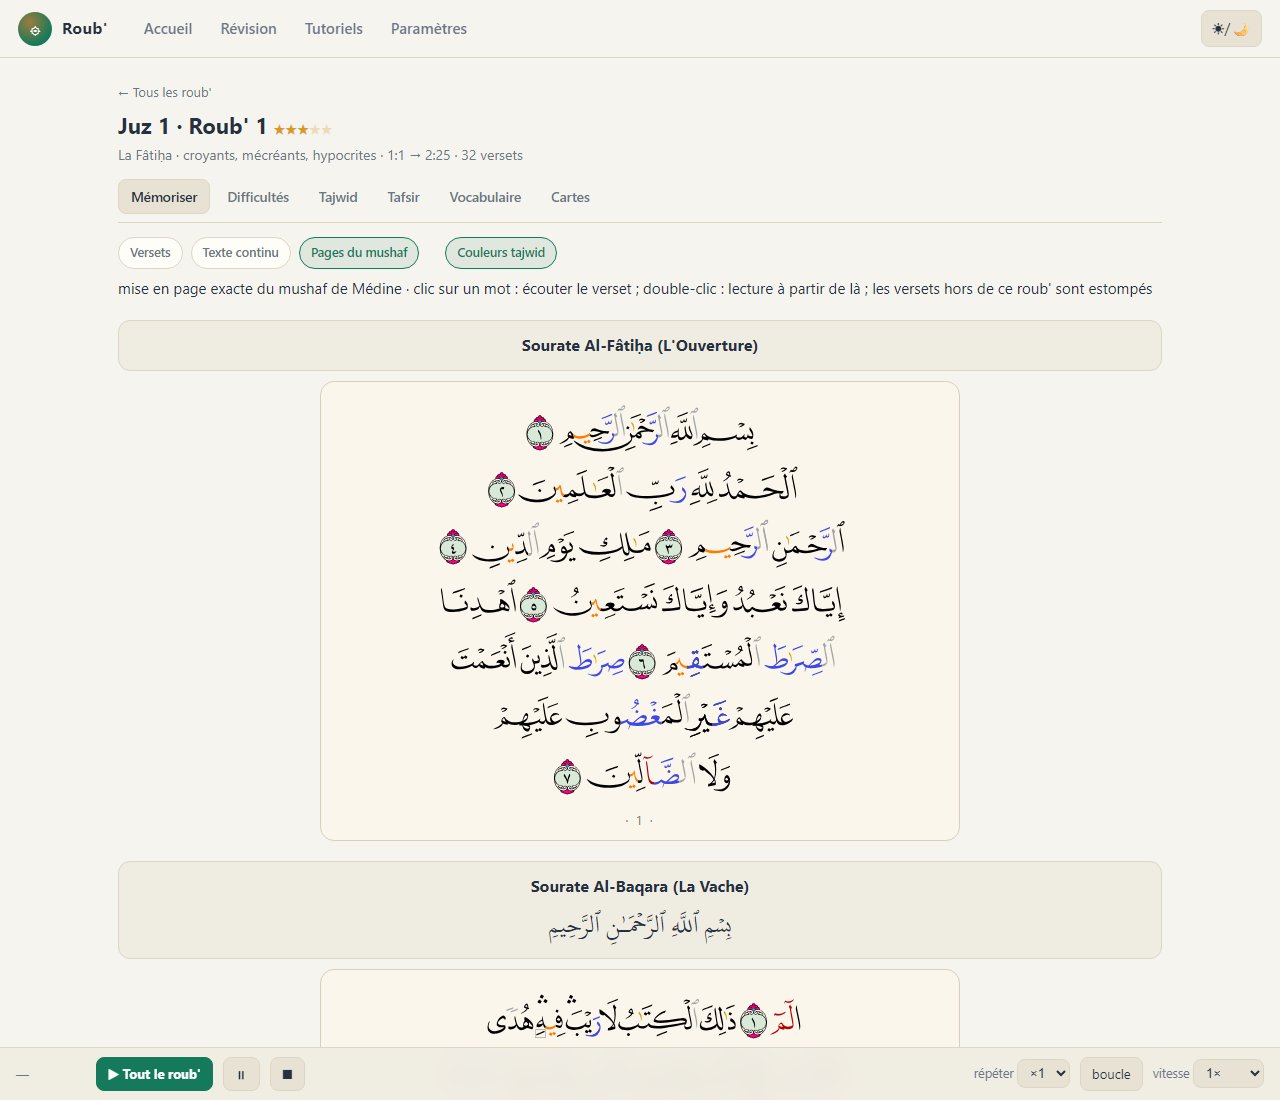
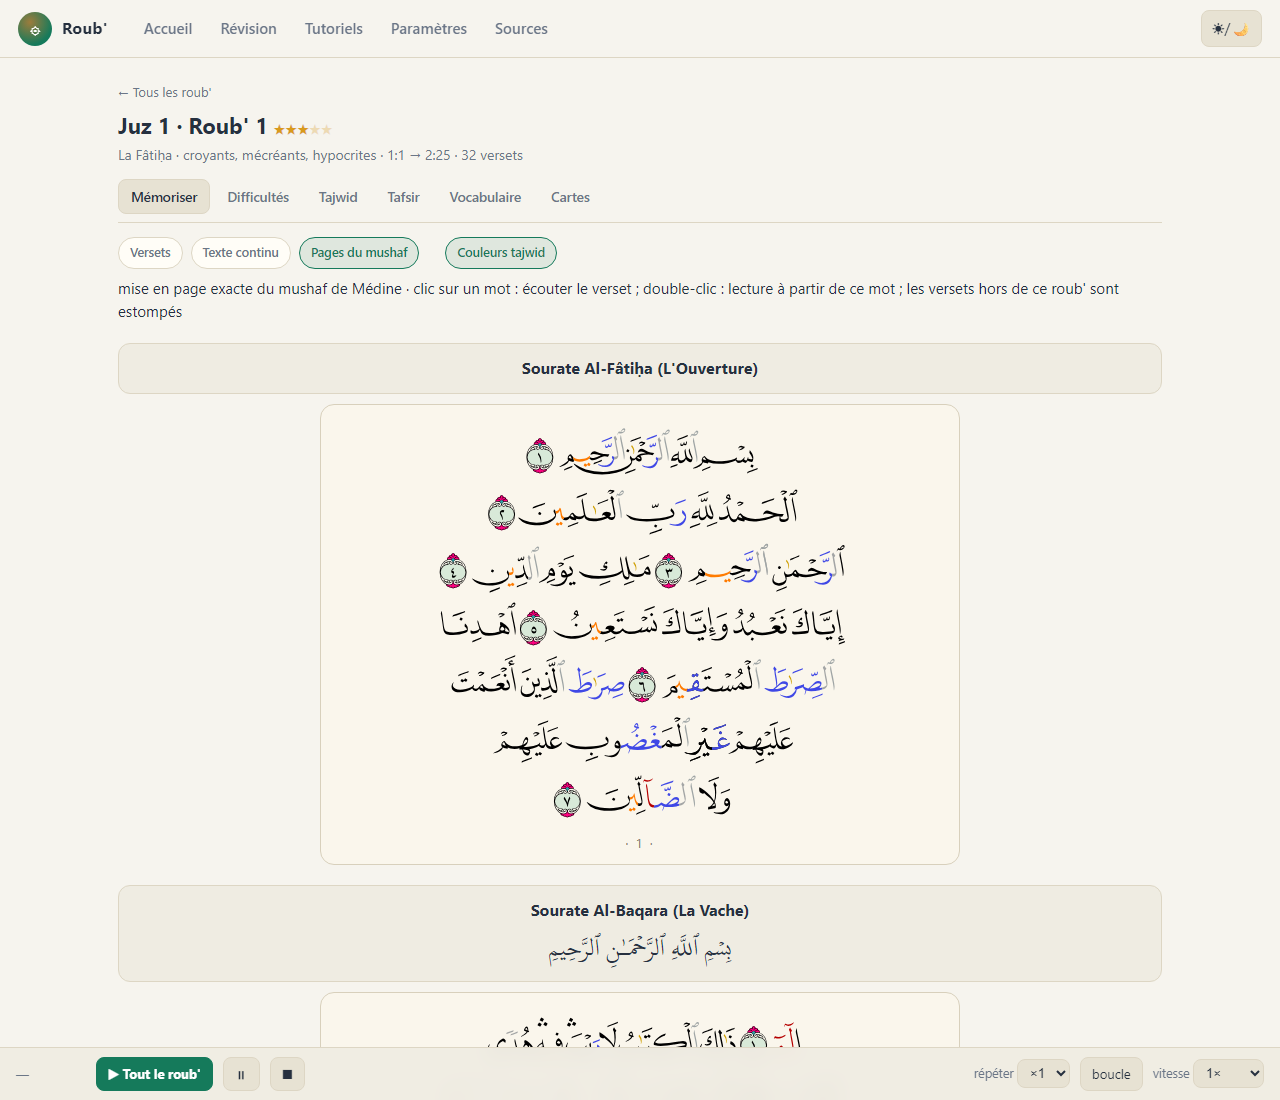
1.16.2 : audit de cohérence après la vague 1.13.4 → 1.16.1
- Le badge « notes à venir » réapparaît sur l'accueil : il testait un verrou
  d'accès levé en 1.13.0, donc il n'apparaissait plus nulle part ; il suit
  maintenant la présence de notes rédigées, ce qu'il a toujours signalé.
- Page Sources et SOURCES.md : les trois sources du tutoriel « Obligatoire ou
  perfectionnement ? » qui manquaient à la bibliographie (al-Marṣafî, Mullâ
  'Alî al-Qârî, Makkî Naṣr), le lien Shamela de Tuhfat al-Atfâl, et les trois
  cas où un lien ne passe pas par Shamela, désormais écrits.
- Les transformations d'affichage du texte sont énoncées toutes les deux,
  la graphie du soukoun et celle de l'iqlâb (page Sources, SOURCES.md,
  tools/README).
- README et LISEZMOI : Sources est un onglet et non un chemin dans Tutoriels,
  les tutoriels sont cinq, les 24 roub' sont tous accessibles.
- Captures du README refaites : elles dataient d'avant la 1.13.0.
- tools/README : fetch_segments.py --renormaliser, et la recette des captures.
- CHANGELOG : entrées 1.5.7/1.5.8 et 1.1.0/1.1.1 dédoublonnées d'après les diffs.
- pages.yml : actions montées aux majors en node24 (checkout v7, configure-pages
  v6, upload-pages-artifact v5, deploy-pages v5) ; le délai de 30 minutes et
  l'entrée timeout, inchangée en v5, sont conservés.

diff --git a/app/app.js b/app/app.js
@@ -615,11 +615,12 @@ function accueilHtml() {
       <p><b>Comment ça marche.</b> Choisis un roub' ci-dessous : l'onglet
       <b>Mémoriser</b> affiche le texte (versets, texte continu ou pages exactes
       du mushaf) avec l'audio et le soulignage mot à mot, et l'onglet
-      <b>Tafsir</b> le commentaire verset par verset. Les notes rédigées
-      (points durs, particularités tajwid, vocabulaire, cartes) existent pour le
-      roub' 1 ; ailleurs, ces onglets affichent « contenu à venir », et les
-      roub' marqués <i>notes à venir</i> sur l'accueil s'ouvriront à mesure
-      qu'ils seront rédigés. L'onglet <b>Révision</b> fait revenir les cartes à
+      <b>Tafsir</b> le commentaire verset par verset. Les 24 roub' sont tous
+      ouverts ; les notes rédigées (points durs, particularités tajwid,
+      vocabulaire, cartes) existent pour le roub' 1, et ailleurs ces onglets
+      affichent « contenu à venir » : c'est ce que signale le badge
+      <i>notes à venir</i> de l'accueil, qui disparaîtra roub' par roub' à
+      mesure de leur rédaction. L'onglet <b>Révision</b> fait revenir les cartes à
       intervalle croissant, et exporte tout pour Anki.</p>
       <p><b>Qui écrit.</b> <b>Anis</b> (co-fondateur, docteur en mathématiques) :
       à l'origine de la méthode. <b>Yusuf</b> (co-fondateur, interne en
@@ -654,7 +655,10 @@ function pageHome() {
     for (const r of rubs) {
       const cards = (DECKS[r.id] || []).map(c => c.id);
       const st = deckStats(cards);
-      const dispo = r.dispo !== false;
+      /* le badge signale l'absence de NOTES RÉDIGÉES, pas un roub' fermé :
+         les 24 sont ouverts depuis la 1.13.0 (`dispo` ne sert plus qu'à la
+         navigation), et se fier à lui rendait le badge invisible partout */
+      const notesRedigees = !!(NOTES[r.id] && NOTES[r.id].difficultes);
       const pg = progressOf(DECKS[r.id] || []);
       const pctSeen = pg.total ? Math.round(100 * pg.seen / pg.total) : 0;
       const pctMature = pg.total ? Math.round(100 * pg.mature / pg.total) : 0;
@@ -669,7 +673,7 @@ function pageHome() {
         <div class="foot">
           ${st.due ? `<span class="badge due">${st.due} carte${st.due > 1 ? "s" : ""} à revoir</span>`
                    : `<span class="badge">${cards.length} cartes</span>`}
-          ${dispo ? "" : `<span class="badge">notes à venir</span>`}
+          ${notesRedigees ? "" : `<span class="badge">notes à venir</span>`}
         </div></div>`;
     }
     h += `</div>`;
@@ -1217,11 +1221,11 @@ function glossBulle(cle) {
     <div class="src">${esc(g.src || "")} · cliquer le terme pour refermer</div></div>`;
 }
 
-/* bibliographie complète : c'est LA page de référence des sources ; les
-   mentions courtes ailleurs (accueil, à propos, README) y renvoient.
-   Doit rester synchronisée avec SOURCES.md à la racine du dépôt. */
 /* page Sources : onglet à part depuis la 1.15.0, elle n'est pas un tutoriel
-   mais la référence de tout ce que l'application reprend à d'autres */
+   mais LA référence de tout ce que l'application reprend à d'autres ; les
+   mentions courtes ailleurs (accueil, à propos, README) y renvoient.
+   Doit rester synchronisée avec SOURCES.md à la racine du dépôt : toute
+   source citée dans un tutoriel doit avoir sa notice ici. */
 function pageSources() {
   return `<div class="hero"><h1>Sources</h1></div><div class="prose">
 <p>Le détail de tout ce que l'application reprend à d'autres : édition,
@@ -1233,9 +1237,11 @@ présenté comme une position savante.</p>
 <h3>Texte coranique</h3>
 <p>Mushaf de Médine, riwâya Hafs 'an 'Âsim, texte de référence du <b>Complexe
 du Roi Fahd</b> (KFGQPC), obtenu par l'API quran.com v4. Le texte n'est jamais
-modifié : les seules transformations sont d'affichage (graphie du soukoun
-propre au mushaf de Médine) et sont réversibles. Un contrôle automatique
-compare, verset par verset, le texte publié à celui de la source.</p>
+modifié : les seules transformations sont d'affichage, et elles sont
+réversibles. Elles sont deux : la graphie du soukoun propre au mushaf de
+Médine, et celle de l'iqlâb, où le petit mîm remplace le second trait du
+tanwin comme sur la page imprimée. Un contrôle automatique compare, verset par
+verset, le texte publié à celui de la source.</p>
 
 <h3>Calligraphie et pages du mushaf</h3>
 <p>Polices <b>QCF</b> du KFGQPC, un glyphe par mot (version 1 en noir et blanc,
@@ -1278,6 +1284,15 @@ tome I, chapitre « Comment lit-on le Qur'an ? » : définitions du taḥqîq, d
 ḥadr, du tadwîr et du tartîl, et entrées du glossaire. Qur'an 73:4 pour le
 tartîl, avec les gloses d'<b>Ibn 'Abbâs</b> et de <b>Mujâhid</b> rapportées par
 Ibn al-Jazarî au même endroit.</p>
+<p>Le tutoriel « Obligatoire ou perfectionnement ? » repose sur le vers
+d'ouverture de la <i>Jazariyya</i> et sur ses commentateurs : <b>Mullâ ʿAlî
+al-Qârî</b> et <b>al-Marṣafî</b>, qui s'opposent sur le statut du <i>laḥn
+khafî</i>, <b>Makkî Naṣr</b> pour la distinction entre obligation religieuse et
+obligation de métier (il rapporte aussi <b>al-Barkawî</b>), <b>Ibn al-Jazarî</b>
+dans <i>an-Nashr</i> et <b>al-Ghazâlî</b> pour l'excuse de celui qui atteint le
+bout de sa capacité. Les traductions françaises de ces passages sont les
+nôtres, signalées comme telles, l'arabe donné en regard : aucune traduction
+française libre de droit de ces ouvrages n'existe.</p>
 
 <h3>Notes et cartes des roub'</h3>
 <p><b>Ibn Kathîr</b>, <i>Tafsîr al-Qur'ân al-'aẓîm</i>, consulté dans son texte
@@ -1299,7 +1314,12 @@ choix pédagogiques, pas des positions savantes.</p>
 <p>Les mêmes sources, en notices normalisées (ISO 690), classées par auteur.
 L'article arabe (<i>al-</i>, <i>as-</i>, <i>at-</i>) n'entre pas dans le
 classement, selon l'usage des bibliographies d'études arabes. Les dates de
-consultation sont celles des relevés qui ont servi à l'application.</p>
+consultation sont celles des relevés qui ont servi à l'application. Les liens
+mènent en priorité à la Bibliothèque numérique Shamela, la plus consultée pour
+les textes classiques ; une autre adresse ne subsiste que là où Shamela n'a pas
+l'ouvrage (<i>Nihâyat al-qawl al-mufîd</i>, <i>al-Minaḥ al-fikriyya</i>) ou
+n'en sert pas le texte (<i>Hidâyat al-qârî</i>, dont les pages du chapitre 7
+reviennent vides).</p>
 
 <p class="biblio">COMPLEXE DU ROI FAHD POUR L'IMPRESSION DU NOBLE CORAN
 (KFGQPC). <i>Al-Muṣḥaf al-sharīf</i>, riwāyat Ḥafṣ ʿan ʿĀṣim [en ligne]. Médine.
@@ -1344,11 +1364,26 @@ tafsir n° 14. [Consulté le 24 juillet 2026]. Disponible à l'adresse :
 https://api.quran.com/api/v4/</p>
 
 <p class="biblio">AL-JAMZŪRĪ, Sulaymān. <i>Tuḥfat al-aṭfāl wa-l-ghilmān fī
-tajwīd al-Qurʾān</i> [matn].</p>
+tajwīd al-Qurʾān</i> [matn en ligne]. [Consulté le 25 juillet 2026]. Disponible
+à l'adresse : https://shamela.ws/book/9632</p>
+
+<p class="biblio">AL-MARṢAFĪ, ʿAbd al-Fattāḥ. <i>Hidāyat al-qārī ilā tajwīd
+kalām al-Bārī</i>, chapitre 7 [en ligne]. [Consulté le 25 juillet 2026].
+Disponible à l'adresse : https://www.islamweb.net/ar/library/content/231/9/</p>
 
 <p class="biblio">MUSLIM IBN AL-ḤAJJĀJ. <i>Ṣaḥīḥ Muslim</i>, hadith 395
 [en ligne]. [Consulté le 23 juillet 2026]. Disponible à l'adresse :
 https://sunnah.com/</p>
+
+<p class="biblio">NAṢR AL-JURAYSĪ, Muḥammad Makkī. <i>Nihāyat al-qawl al-mufīd
+fī ʿilm at-tajwīd</i>, p. 26 [en ligne]. Rapporte également al-Barkawī,
+<i>Sharḥ ad-Durr al-yatīm</i>. [Consulté le 25 juillet 2026]. Disponible à
+l'adresse : https://ketabonline.com/ar/books/55066/</p>
+
+<p class="biblio">AL-QĀRĪ, Mullā ʿAlī (m. 1014 H). <i>Al-Minaḥ al-fikriyya fī
+sharḥ al-Muqaddima al-Jazariyya</i>, p. 29-30. Exemplaire numérisé [en ligne].
+[Consulté le 25 juillet 2026]. Disponible à l'adresse :
+https://archive.org/details/0743Pdf_201804</p>
 
 <p class="biblio">AS-SAʿDĪ, ʿAbd ar-Raḥmān ibn Nāṣir. <i>Taysīr al-Karīm
 ar-Raḥmān fī tafsīr kalām al-Mannān</i> [en ligne]. API quran.com, tafsir n° 91.
@@ -2336,7 +2371,7 @@ async function syncJoin(raw) {
 }
 
 /* ---------------- PWA : service worker + mises à jour ---------------- */
-const BUILD_VERSION = "1.16.1";   // réécrit par tools/release.py
+const BUILD_VERSION = "1.16.2";   // réécrit par tools/release.py
 const SITE_URL = "https://yusuf-oph.github.io/roub/";
 let APPVER = "";
 async function fetchVersion() {

diff --git a/app/sw.js b/app/sw.js
@@ -3,7 +3,7 @@
    - coquille (html/css/js/données/police de texte) : precache versionné ;
    - audio Husary + polices de pages QCF : cache à la demande, immuable ;
    - version.json : réseau d'abord (détection de mise à jour). */
-const VERSION = "1.16.1+2026-07-25";
+const VERSION = "1.16.2+2026-07-25";
 const SHELL_CACHE = "roub-shell-" + VERSION;
 const MEDIA_CACHE = "roub-media-v1";
 

diff --git a/SOURCES.md b/SOURCES.md
@@ -20,8 +20,9 @@ propre et n'est pas présenté comme une position savante.
   `text_uthmani` (texte affiché), `text_uthmani_tajweed` (annotations de
   règles), `text_imlaei` (base de la translittération).
 - Le texte n'est **jamais modifié** : les seules transformations sont
-  d'affichage (graphie du soukoun propre au mushaf de Médine) et sont
-  réversibles.
+  d'affichage, et elles sont réversibles. Elles sont deux : la **graphie du
+  soukoun** propre au mushaf de Médine, et la **graphie de l'iqlâb**, où le
+  petit mîm remplace le second trait du tanwin, comme sur la page imprimée.
 - Contrôle : `tools/verifie.py` compare, verset par verset, le texte publié au
   texte de l'API.
 
@@ -96,6 +97,19 @@ mu'allim* enregistré au monde (1969).
   la riwâya). Texte arabe consulté et archivé le 24/07/2026.
 - Qur'an 73:4 pour le tartîl, avec les gloses d'**Ibn 'Abbâs** et de
   **Mujâhid** rapportées par Ibn al-Jazarî au même endroit.
+- Tutoriel « Obligatoire ou perfectionnement ? » : le vers d'ouverture du
+  chapitre de tajwid de la *Jazariyya* et ses commentateurs. **Mullâ 'Alî
+  al-Qârî** (*al-Minaḥ al-fikriyya*) et **al-Marṣafî** (*Hidâyat al-qârî*)
+  soutiennent deux positions opposées sur le statut du *laḥn khafî*, et le
+  second nomme le premier pour le contredire ; **Makkî Naṣr** (*Nihâyat
+  al-qawl al-mufîd*) donne la distinction entre obligation religieuse et
+  obligation de métier, et rapporte **al-Barkawî** ; **Ibn al-Jazarî**
+  (*an-Nashr*) et **al-Ghazâlî** (*Iḥyâ'*) pour l'excuse de celui qui atteint
+  le bout de sa capacité. Les deux positions sont exposées avec leurs auteurs
+  et leurs textes, l'application n'arbitre pas entre elles.
+- Les traductions françaises de ces passages sont les **nôtres**, signalées
+  comme telles dans le tutoriel, avec l'arabe en regard : aucune traduction
+  française libre de droit de ces ouvrages n'existe.
 - Éléments biographiques sur al-Husary (premières mondiales d'enregistrement) :
   notice biographique du cheikh ; à consolider par une source institutionnelle.
 
@@ -134,7 +148,14 @@ l'application.
 Choix de la source en ligne : **priorité à la Bibliothèque numérique Shamela**
 (`shamela.ws`), la plus connue et la plus consultée pour les textes classiques
 (suggestion d'Anis, 25/07). Les autres adresses ne subsistent que là où Shamela
-n'a pas l'ouvrage ou n'en sert pas le texte, et c'est alors signalé.
+n'a pas l'ouvrage ou n'en sert pas le texte. Les trois cas, vérifiés le 25/07 :
+
+- *Hidâyat al-qârî* d'al-Marṣafî **est** sur Shamela (livre 22869), mais les
+  pages du chapitre 7 y reviennent vides : le lien reste sur islamweb, qui sert
+  le texte vocalisé.
+- *Nihâyat al-qawl al-mufîd* de Makkî Naṣr n'y est pas : ketabonline.
+- *Al-Minaḥ al-fikriyya* de Mullâ 'Alî al-Qârî n'y est pas : exemplaire
+  numérisé sur archive.org.
 
 Conventions retenues pour ce qui échappe à la norme : classement par auteur,
 **l'article arabe (*al-*, *as-*, *at-*) n'entrant pas dans l'ordre alphabétique**
@@ -182,10 +203,26 @@ IBN KATHĪR, Ismāʿīl ibn ʿUmar. *Tafsīr al-Qurʾān al-ʿaẓīm* [en ligne
 arabe intégral servi par l'API quran.com, tafsir n° 14. [Consulté le 24 juillet
 2026]. Disponible à l'adresse : https://api.quran.com/api/v4/
 
-AL-JAMZŪRĪ, Sulaymān. *Tuḥfat al-aṭfāl wa-l-ghilmān fī tajwīd al-Qurʾān* [matn].
+AL-JAMZŪRĪ, Sulaymān. *Tuḥfat al-aṭfāl wa-l-ghilmān fī tajwīd al-Qurʾān*
+[matn en ligne]. [Consulté le 25 juillet 2026]. Disponible à l'adresse :
+https://shamela.ws/book/9632
+
+AL-MARṢAFĪ, ʿAbd al-Fattāḥ. *Hidāyat al-qārī ilā tajwīd kalām al-Bārī*,
+chapitre 7 [en ligne]. [Consulté le 25 juillet 2026]. Disponible à l'adresse :
+https://www.islamweb.net/ar/library/content/231/9/
 
 MUSLIM IBN AL-ḤAJJĀJ. *Ṣaḥīḥ Muslim*, hadith 395 [en ligne]. [Consulté le
 23 juillet 2026]. Disponible à l'adresse : https://sunnah.com/
+
+NAṢR AL-JURAYSĪ, Muḥammad Makkī. *Nihāyat al-qawl al-mufīd fī ʿilm at-tajwīd*,
+p. 26 [en ligne]. Rapporte également al-Barkawī, *Sharḥ ad-Durr al-yatīm*.
+[Consulté le 25 juillet 2026]. Disponible à l'adresse :
+https://ketabonline.com/ar/books/55066/
+
+AL-QĀRĪ, Mullā ʿAlī (m. 1014 H). *Al-Minaḥ al-fikriyya fī sharḥ al-Muqaddima
+al-Jazariyya*, p. 29-30. Exemplaire numérisé [en ligne]. [Consulté le
+25 juillet 2026]. Disponible à l'adresse :
+https://archive.org/details/0743Pdf_201804
 
 AS-SAʿDĪ, ʿAbd ar-Raḥmān ibn Nāṣir. *Taysīr al-Karīm ar-Raḥmān fī tafsīr kalām
 al-Mannān* [en ligne]. API quran.com, tafsir n° 91. [Consulté le 24 juillet

diff --git a/tools/README.md b/tools/README.md
@@ -24,7 +24,13 @@ python tools/build_pages.py 1 2 3
 #    <script> de data/quran, data/notes, data/cartes ET data/tafsirfr
 
 # 5. segments mot à mot des 4 styles de récitation (soulignage)
-python tools/fetch_segments.py
+python tools/fetch_segments.py                 # récupère tout, puis normalise
+python tools/fetch_segments.py --renormaliser  # rejoue la normalisation seule,
+#    sans réseau ni curl_cffi, sur les fichiers déjà générés. La normalisation
+#    fusionne le yâ vocatif (يَـٰٓأَيُّهَا...), que les jeux distants comptent comme un
+#    mot à part alors que le rasm l'écrit collé : sans elle, tout le reste du
+#    verset est décalé d'un cran (soulignage en avance, double-clic un mot trop
+#    tôt). À relancer si l'on touche à la règle de fusion.
 
 # 6. tafsir français verset par verset (base QuranEnc déjà en cache)
 python tools/build_tafsirfr.py
@@ -58,11 +64,50 @@ python tools/build_export.py
   exacte du texte uthmani), puis `verifie.py`.
 - Renvois : `{2:15}` (verset) ou `{2:21-22}` (plage : le clic mène au
   premier verset). Arabe inline : `[[...]]`. Gras `**`, italique `*`.
-- L'affichage transforme le soukoun U+0652 en U+06E1 (graphie de Médine) et
-  peut masquer les ronds muets U+06DF : ne PAS modifier les données pour ça.
+- L'affichage applique DEUX graphies du mushaf sans jamais toucher aux données :
+  le soukoun U+0652 rendu en U+06E1 (graphie de Médine), et l'iqlâb, où un
+  tanwîn suivi d'un petit mîm devient voyelle simple + U+06E2 (le mîm remplace
+  le second trait du tanwin). Il peut en plus masquer les ronds muets U+06DF.
+  Ne PAS modifier les données pour ça : `arDisplay()` (app.js) et
+  `ar_display()` (build_apkg.py) portent la même règle et `verifie.py`
+  (section B) refuse une release si l'une des deux perd le marqueur.
 - Fichiers par rub : `app/data/notes/<roub'>.js` (difficultes/tajwid/vocab :
   la clé `tafsir` a disparu en v1.8.0, le tafsir vient d'al-Mukhtaṣar) et `app/data/cartes/<roub'>.js` (mutash/sens uniquement : les cartes
   d'enchaînement et de vocabulaire sont dérivées automatiquement).
+
+## Refaire les captures du README (mainteneur)
+
+Les quatre images de `docs/img/` sont prises en **thème clair**, en **1280×1100**
+et **sans barre de défilement**. Démarrer le serveur local et vérifier qu'il
+répond (sinon on photographie la page d'erreur, et les quatre fichiers sortent
+de taille identique : signal d'alerte), puis, pour chacune :
+
+```bash
+msedge --headless --disable-gpu --hide-scrollbars --window-size=1280,1100 \
+  --user-data-dir=<profil NEUF> --virtual-time-budget=8000 \
+  --screenshot=<chemin ABSOLU>.png \
+  "http://localhost:8768/app/index.html?theme=light#<route>"
+```
+
+| Image | route |
+|---|---|
+| `accueil-clair.png` | `home` |
+| `memoriser-clair.png` | `rub/j1r1/memoriser/versets` |
+| `pages-mushaf-clair.png` | `rub/j1r1/memoriser/pagescouleur` |
+| `revision-clair.png` | `revision` |
+
+Pièges, tous rencontrés :
+
+- **Un `--user-data-dir` neuf par capture.** Deux Edge lancés sur le même profil :
+  le second ne fait rien, sans message, et l'ancienne image reste en place.
+  Contrôler la date de chaque fichier après coup.
+- `--headless` seul, **pas** `--headless=new`, qui échoue ici.
+- Chemin de sortie **absolu** (un chemin relatif donne « Access is denied »).
+- L'écriture est asynchrone : attendre la ligne « bytes written to file ».
+- Profil neuf = bloc d'accueil déplié, comme sur les captures publiées.
+- **Regarder les images avant de les livrer** : elles ne déclenchent aucun test,
+  et une capture périmée vieillit sans bruit (barre de navigation d'une version
+  passée, libellés renommés depuis, badges qui n'existent plus).
 
 ## Publier une mise à jour (mainteneur)
 

diff --git a/README.md b/README.md
@@ -16,10 +16,11 @@ mot**, difficulté notée sur 5 étoiles, **tafsir verset par verset**
 (al-Mukhtaṣar, traduction française), cartes d'enchaînement, progression
 visible et auto-évaluation des lacunes.
 
-Le **contenu rédigé** (points durs de mémorisation, particularités tajwid,
-vocabulaire, cartes mutashabihat et de sens) existe pour le **roub' 1** ;
-les autres roub' portent la mention « notes à venir » et s'ouvriront à
-mesure de leur rédaction. Le juz 'Amma est accessible en entier.
+Les **24 roub' sont tous accessibles** : texte, pages du mushaf, audio, tafsir
+et cartes d'enchaînement partout. Le **contenu rédigé** (points durs de
+mémorisation, particularités tajwid, vocabulaire, cartes mutashabihat et de
+sens) existe pour le **roub' 1** ; les autres portent la mention « notes à
+venir », qui disparaîtra roub' par roub' à mesure de leur rédaction.
 
 Également : **révision espacée** intégrée avec export des cartes pour Anki
 (planificateur FSRS) et **synchronisation multi-appareils par code
@@ -75,7 +76,7 @@ l'export d'avis intégré à l'application, dans Paramètres).
 
 **Bibliographie détaillée : [SOURCES.md](SOURCES.md)** (éditions, versions,
 provenance exacte, conditions d'usage) ; résumé ci-dessous. Dans l'application :
-onglet Tutoriels → **Sources**.
+onglet **Sources**.
 
 - **Code : AGPL-3.0** (fichier `LICENSE`) · **Contenu éditorial :
   CC BY-NC-SA 4.0** : détails (français et anglais) dans
@@ -93,9 +94,10 @@ onglet Tutoriels → **Sources**.
 - Tafsir : « French Translation of Al-Mukhtasar in Interpreting the Noble
   Quran », Tafsir Center for Quranic Studies, V1.0.0, via QuranEnc.com,
   reproduit sans modification (conditions de QuranEnc.com).
-- Cartes et tutoriels : sources citées au fil du texte (Ibn Kathîr,
-  As-Sa'dî, Ibn al-Jazarî) ; fiches de règles d'après les matns Tuhfat
-  al-Atfal et al-Muqaddima al-Jazariyya.
+- Cartes et tutoriels : sources citées au fil du texte (Ibn Kathîr, As-Sa'dî,
+  Ibn al-Jazarî, et pour le tutoriel « Obligatoire ou perfectionnement ? »
+  Mullâ 'Alî al-Qârî, al-Marṣafî, Makkî Naṣr et al-Ghazâlî) ; fiches de règles
+  d'après les matns Tuhfat al-Atfal et al-Muqaddima al-Jazariyya.
 
 Application gratuite et non commerciale, sans compte ni collecte de
 données personnelles ; la synchronisation optionnelle repose sur un code

diff --git a/CHANGELOG.md b/CHANGELOG.md
@@ -1,5 +1,11 @@
 # Changelog
 
+## 1.16.2 · 2026-07-25
+- Le badge « notes à venir » réapparaît sur l'accueil : il suivait un verrou d'accès levé en 1.13.0, il suit maintenant la présence de notes rédigées
+- Page Sources : les auteurs du tutoriel « Obligatoire ou perfectionnement ? » (Mullâ 'Alî al-Qârî, al-Marṣafî, Makkî Naṣr) rejoignent la bibliographie, qui dit aussi pourquoi trois liens ne passent pas par Shamela
+- Page Sources : les transformations d'affichage du texte sont énoncées toutes les deux, la graphie du soukoun et celle de l'iqlâb
+- Captures et documents remis en accord avec l'application (onglet Sources, cinq tutoriels, roub' tous ouverts)
+
 ## 1.16.1 · 2026-07-25
 - Paramètres : la dernière adresse de contact qui restait en texte brut est cliquable comme les autres
 
@@ -119,10 +125,10 @@
 - Présentation du projet enrichie : captures d'écran, crédits à jour, licences bilingues
 
 ## 1.5.8 · 2026-07-23
-- Mention ajoutée : contenu sourcé et vérifié, toute erreur peut être signalée via les avis
+- La même mention rejoint l'« à propos » des Paramètres
 
 ## 1.5.7 · 2026-07-23
-- Mention ajoutée : contenu sourcé et vérifié, toute erreur peut être signalée via les avis
+- Mention ajoutée dans le widget d'avis, le README et le LISEZMOI : contenu sourcé et vérifié, toute erreur peut être signalée
 
 ## 1.5.6 · 2026-07-23
 - Audit sourcé étendu à tout le contenu : fiches tajwid vérifiées contre Tuhfat al-Atfal et la Jazariyya (et sourcées), exception d'idghâm dans un même mot ajoutée, formulation du triplet de la qibla précisée, vocabulaire confronté à la traduction
@@ -166,10 +172,6 @@
 
 ## 1.1.1 · 2026-07-23
 - Rond des lettres muettes désormais attaché à sa lettre (correctif typographique)
-- Soukoun à la graphie du mushaf de Médine (petite tête de khâ') et option pour masquer les ronds des lettres muettes
-- Pages du mushaf : mise en page exacte de Médine (calligraphie officielle)
-- Progression visible (barres, versets acquis, série de jours) et auto-évaluation des lacunes
-- Application installable (PWA) avec mode hors-ligne
 
 ## 1.1.0 · 2026-07-23
 - Soukoun à la graphie du mushaf de Médine (petite tête de khâ') et option pour masquer les ronds des lettres muettes
